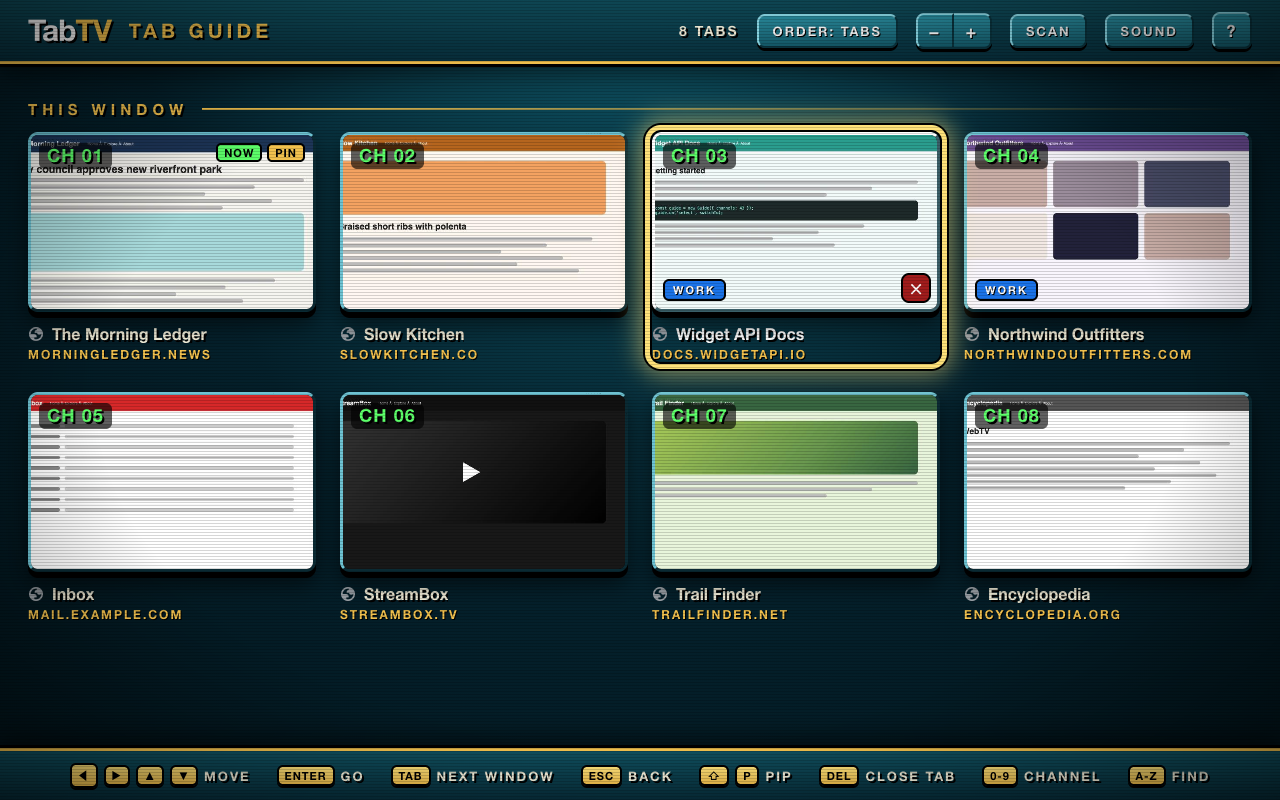
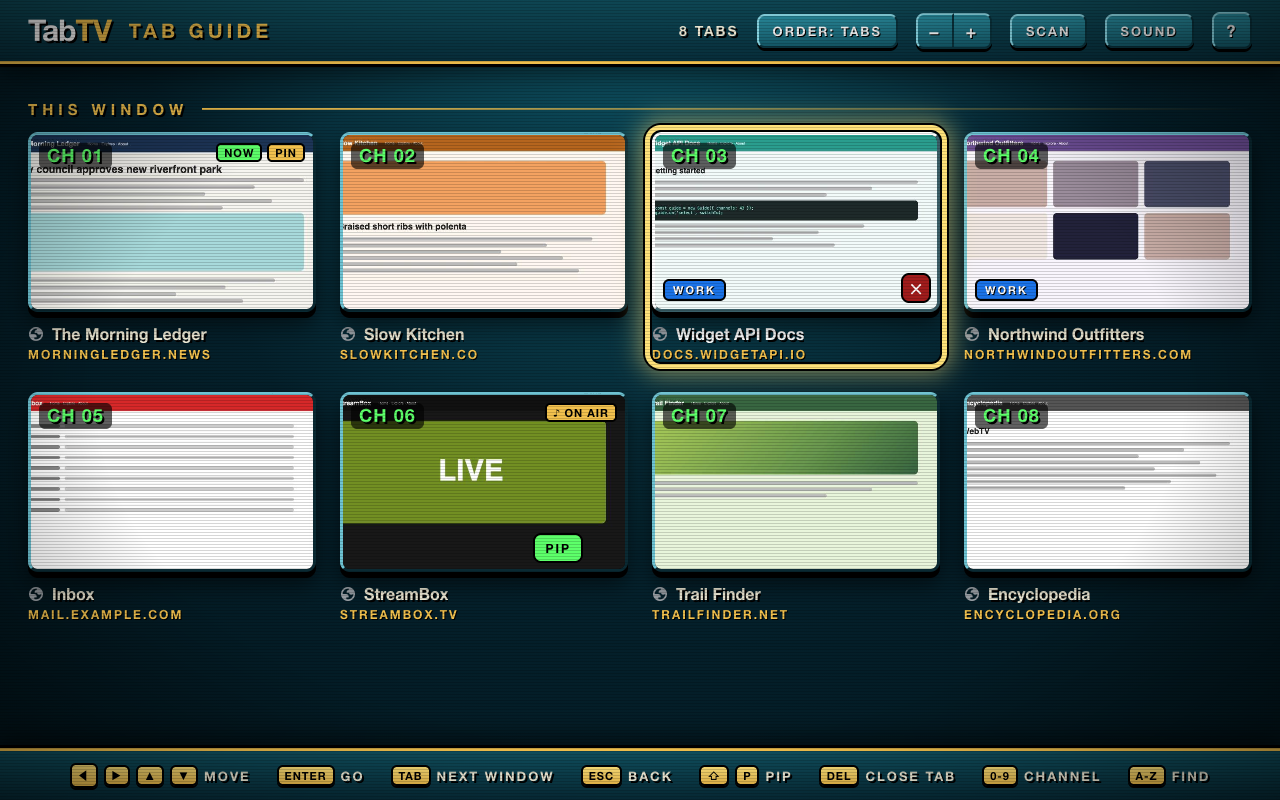
Store screenshots for PiP, SEEN search, and the help card; utf-8 test pages

Changed region(s): [[0.25, 0.5, 0.5, 0.7188]]

diff --git a/STORE.md b/STORE.md
@@ -103,5 +103,5 @@ at any time from the extension's settings page or by uninstalling the extension.
 | Asset | Size | File |
 | --- | --- | --- |
 | Icon | 128×128 | `icons/icon128.png` |
-| Screenshots | 1280×800 | `store/shot-1-guide.png`, `store/shot-2-find.png`, `store/shot-3-settings.png` |
+| Screenshots | 1280×800 | `store/shot-1-guide.png`, `store/shot-2-find.png`, `store/shot-3-settings.png`, `store/shot-4-pip.png`, `store/shot-5-help.png` |
 | Small promo tile | 440×280 | `store/promo-440x280.png` |
